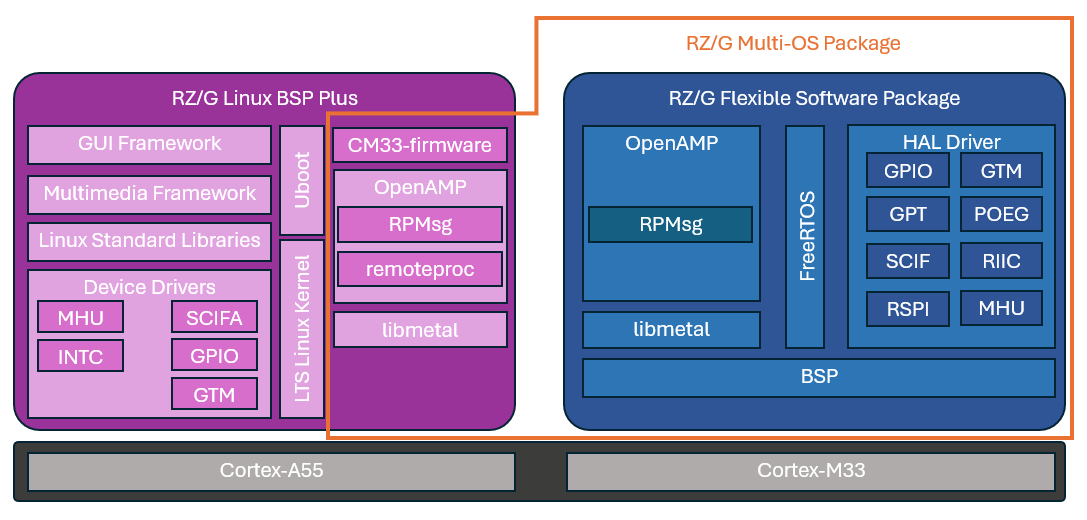
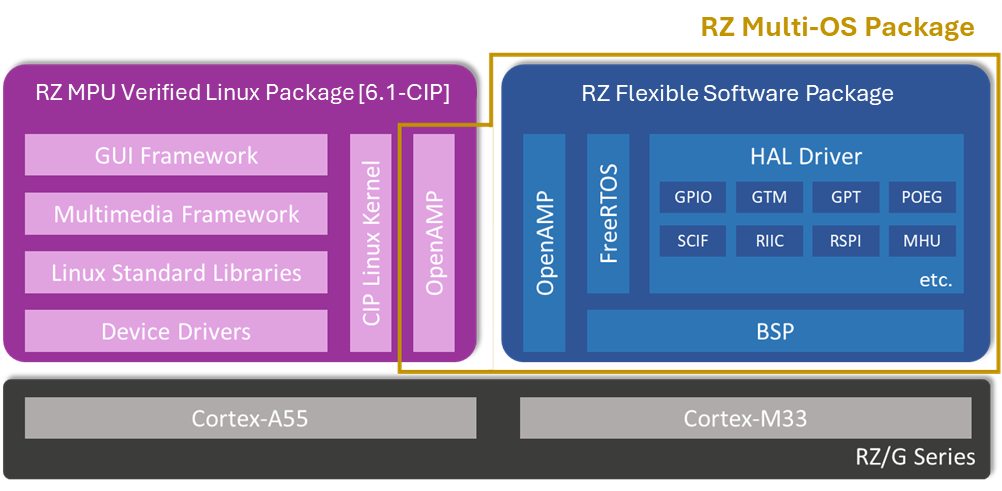
RZ/G2L, RZ/G2LC, RZ/G2UL, RZ/G3S: Update block diagram and readme to commonize the RZ Multi-OS and RZ FSP word

diff --git a/evk_rzg2lc/README.md b/evk_rzg2lc/README.md
@@ -1,6 +1,6 @@
 # RZ/G2LC Cortex-M33 RPMsg example
 
-This is the Cortex-M33 RPMsg example to work with RZ/G2LC Multi-OS Package. This example uses RZ/G FSP for FreeRTOS, portable middleware stacks, best in-case HAL drivers, and OpenAMP framework for Asymmetric Multiprocessing systems. By integrating the Multi-OS Package combined with this example, users can efficiently establish a Multi-OS environment wherein Linux operates on the Cortex®-A55
+This is the Cortex-M33 RPMsg example to work with RZ Multi-OS Package. This example uses RZ FSP for FreeRTOS, portable middleware stacks, best in-case HAL drivers, and OpenAMP framework for Asymmetric Multiprocessing systems. By integrating the Multi-OS Package combined with this example, users can efficiently establish a Multi-OS environment wherein Linux operates on the Cortex®-A55
 and FreeRTOS/BareMetal runs on the Cortex-M33, with support for Inter-Processor Communication between these CPU cores.<br>
 <img src=./git_images/block-diagram.png width="720">
 

diff --git a/evk_rzg2ul/README.md b/evk_rzg2ul/README.md
@@ -1,6 +1,6 @@
 # RZ/G2UL Cortex-M33 RPMsg example
 
-This is the Cortex-M33 RPMsg example to work with RZ/G2UL Multi-OS Package. This example uses RZ/G FSP for FreeRTOS, portable middleware stacks, best in-case HAL drivers, and OpenAMP framework for Asymmetric Multiprocessing systems. By integrating the Multi-OS Package combined with this example, users can efficiently establish a Multi-OS environment wherein Linux operates on the Cortex®-A55
+This is the Cortex-M33 RPMsg example to work with RZ Multi-OS Package. This example uses RZ FSP for FreeRTOS, portable middleware stacks, best in-case HAL drivers, and OpenAMP framework for Asymmetric Multiprocessing systems. By integrating the Multi-OS Package combined with this example, users can efficiently establish a Multi-OS environment wherein Linux operates on the Cortex®-A55
 and FreeRTOS/BareMetal runs on the Cortex-M33, with support for Inter-Processor Communication between these CPU cores.<br>
 <img src=./git_images/block-diagram.png width="720">
 

diff --git a/evk_rzg2l/README.md b/evk_rzg2l/README.md
@@ -1,6 +1,6 @@
 # RZ/G2L Cortex-M33 RPMsg example
 
-This is the Cortex-M33 RPMsg example to work with RZ/G2L Multi-OS Package. This example uses RZ/G FSP for FreeRTOS, portable middleware stacks, best in-case HAL drivers, and OpenAMP framework for Asymmetric Multiprocessing systems. By integrating the Multi-OS Package combined with this example, users can efficiently establish a Multi-OS environment wherein Linux operates on the Cortex®-A55
+This is the Cortex-M33 RPMsg example to work with RZ Multi-OS Package. This example uses RZ FSP for FreeRTOS, portable middleware stacks, best in-case HAL drivers, and OpenAMP framework for Asymmetric Multiprocessing systems. By integrating the Multi-OS Package combined with this example, users can efficiently establish a Multi-OS environment wherein Linux operates on the Cortex®-A55
 and FreeRTOS/BareMetal runs on the Cortex-M33, with support for Inter-Processor Communication between these CPU cores.<br>
 <img src=./git_images/block-diagram.png width="720">
 

diff --git a/evk_rzg3s/README.md b/evk_rzg3s/README.md
@@ -1,6 +1,6 @@
 # RZ/G3S Cortex-M33 RPMsg example
 
-This is the Cortex-M33 RPMsg example to work with RZ/G3S Multi-OS Package. This example uses RZ/G FSP for FreeRTOS, portable middleware stacks, best in-case HAL drivers, and OpenAMP framework for Asymmetric Multiprocessing systems. By integrating the Multi-OS Package combined with this example, users can efficiently establish a Multi-OS environment wherein Linux operates on the Cortex®-A55
+This is the Cortex-M33 RPMsg example to work with RZ Multi-OS Package. This example uses RZ FSP for FreeRTOS, portable middleware stacks, best in-case HAL drivers, and OpenAMP framework for Asymmetric Multiprocessing systems. By integrating the Multi-OS Package combined with this example, users can efficiently establish a Multi-OS environment wherein Linux operates on the Cortex®-A55
 and FreeRTOS/BareMetal runs on the Cortex-M33, with support for Inter-Processor Communication between these CPU cores.<br>
 <img src=./git_images/block-diagram.png width="720">
 
